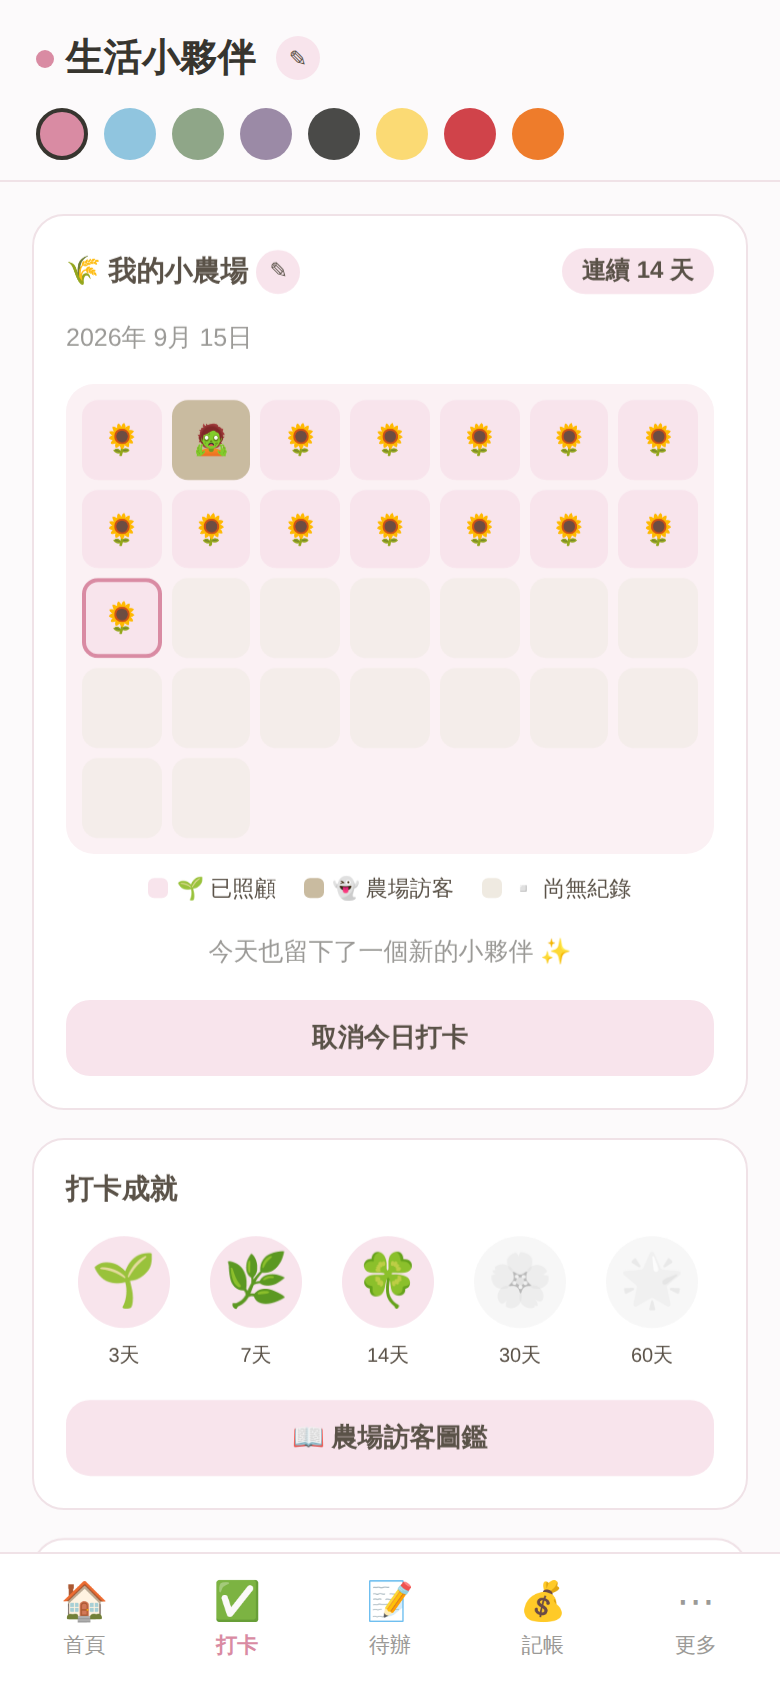
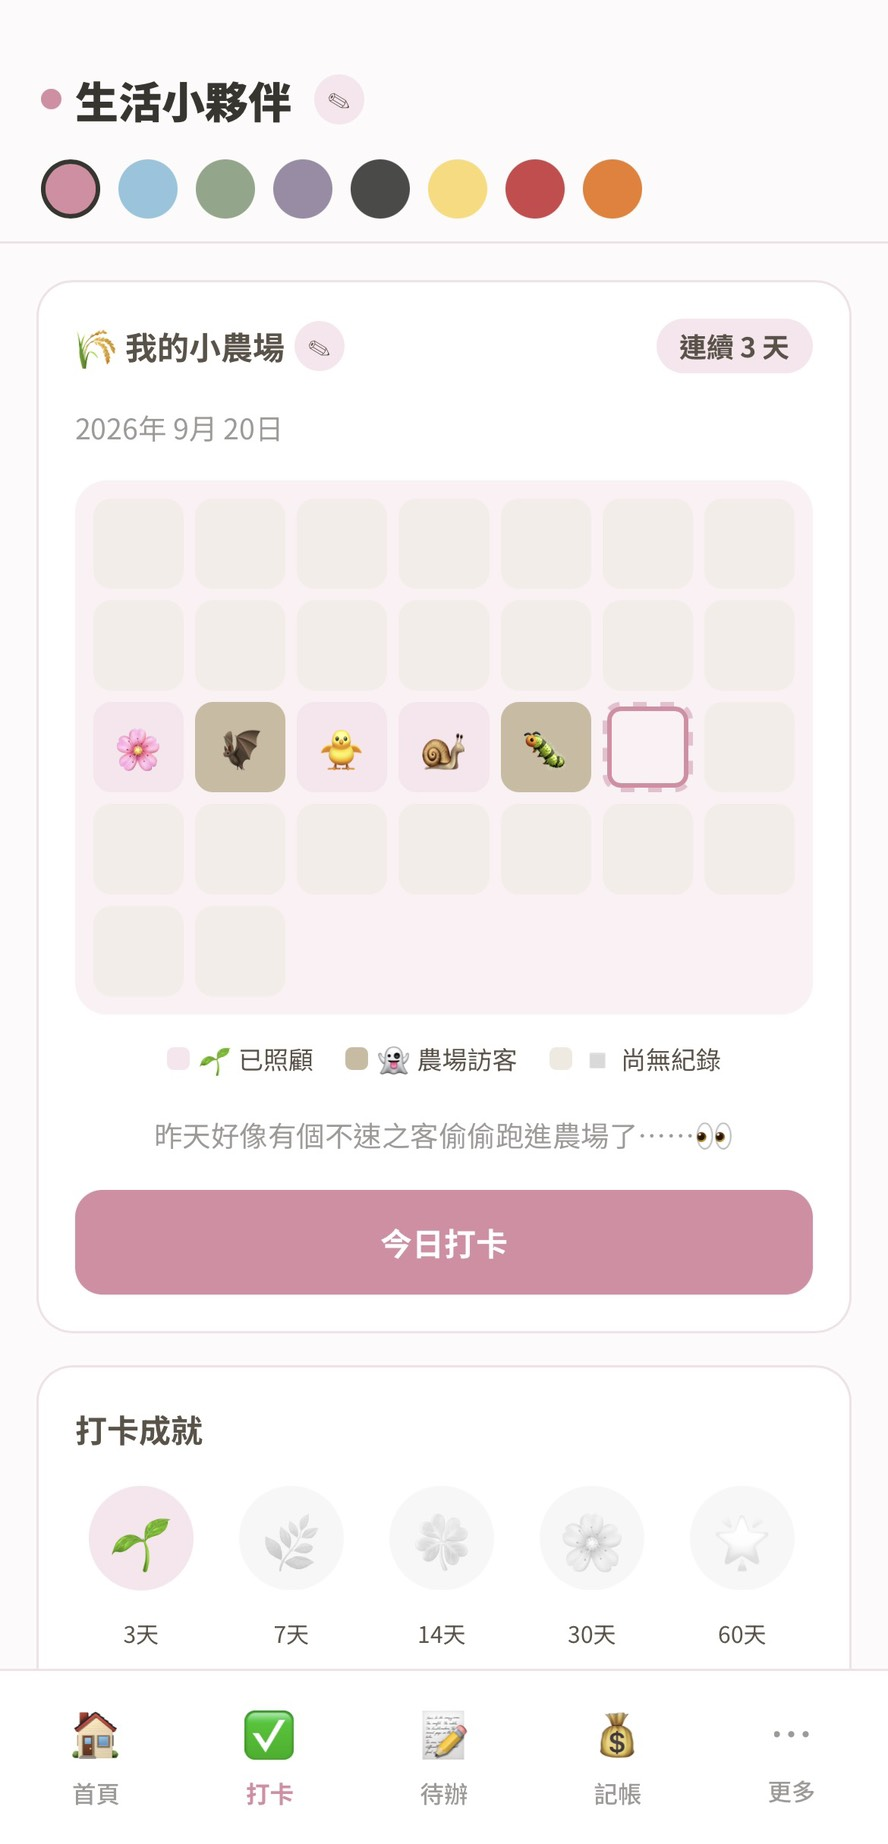
Replace farm screenshot and merge asset images into a 2x2 collage
- Swap img/farm.png for the user-provided screenshot showing the
  check-in grid, streak badge, and 打卡成就 milestones section.
- Reuse the shot-row nowrap fix so 02 農場打卡小遊戲's two images
  (farm.png, guide.png) sit side by side on mobile like feature 01.
- Restructure 03 我的資產: the four mini-feature cards (budget, fixed,
  assets, debts) now show text only, with their screenshots combined
  into one shared .asset-collage 2x2 image grid, scaled down
  proportionally and always 2 columns regardless of viewport width.

Claude-Session: https://claude.ai/code/session_01HASXpjPorS2wRhF6Eij8Rn

diff --git a/sales/index.html b/sales/index.html
@@ -135,6 +135,8 @@ header.top{
 .mini-feature p{ font-size:13px; line-height:1.8; color:var(--ink-soft); }
 .mini-feature .mf-visual{ margin-top:12px; }
 .mini-feature .mf-visual img{ width:100%; display:block; border-radius:12px; border:1px solid var(--line); }
+.asset-collage{ display:grid; grid-template-columns:1fr 1fr; gap:10px; margin-top:8px; }
+.asset-collage img{ width:100%; display:block; border-radius:12px; border:1px solid var(--line); }
 
 /* ---------- life trace ---------- */
 .trace{ padding-block:88px; background:var(--paper-raised); border-top:1px solid var(--line); border-bottom:1px solid var(--line); }
@@ -347,22 +349,24 @@ footer p{ font-size:12.5px; color:var(--ink-faint); }
       <div class="mini-feature">
         <div class="mf-head"><span class="ic">🧮</span>每月預算分配</div>
         <p>針對每個月的收入與生活需求，安排不同用途的預算，讓你知道這個月的錢要怎麼分配。</p>
-        <div class="mf-visual"><img src="img/budget.png" alt="生活小夥伴每月預算分配畫面"></div>
       </div>
       <div class="mini-feature">
         <div class="mf-head"><span class="ic">🔁</span>固定收支</div>
         <p>房租、保費、訂閱這類每期都固定的支出，可以預先設定，不用每個月重新輸入。</p>
-        <div class="mf-visual"><img src="img/fixed.png" alt="生活小夥伴固定收支設定畫面"></div>
       </div>
       <div class="mini-feature">
         <div class="mf-head"><span class="ic">🏦</span>資產盤點</div>
         <p>整理自己目前持有的不同資產，慢慢看懂自己的資產累積。</p>
-        <div class="mf-visual"><img src="img/assets.png" alt="生活小夥伴資產盤點畫面"></div>
       </div>
       <div class="mini-feature">
         <div class="mf-head"><span class="ic">💳</span>負債與還款進度</div>
         <p>不只看見「還有多少債」，也能看見「自己已經還了多少」。</p>
-        <div class="mf-visual"><img src="img/debts.png" alt="生活小夥伴負債與還款進度畫面"></div>
+      </div>
+      <div class="asset-collage" style="grid-column:1 / -1;">
+        <img src="img/budget.png" alt="生活小夥伴每月預算分配畫面">
+        <img src="img/fixed.png" alt="生活小夥伴固定收支設定畫面">
+        <img src="img/assets.png" alt="生活小夥伴資產盤點畫面">
+        <img src="img/debts.png" alt="生活小夥伴負債與還款進度畫面">
       </div>
       <div class="mini-feature" style="grid-column:1 / -1;">
         <div class="mf-head"><span class="ic">🛟</span>緊急預備金</div>
